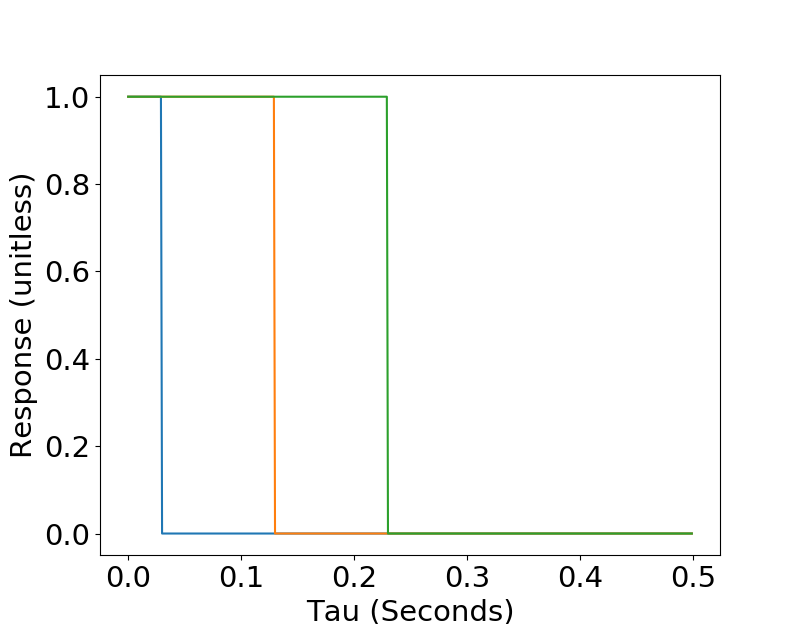
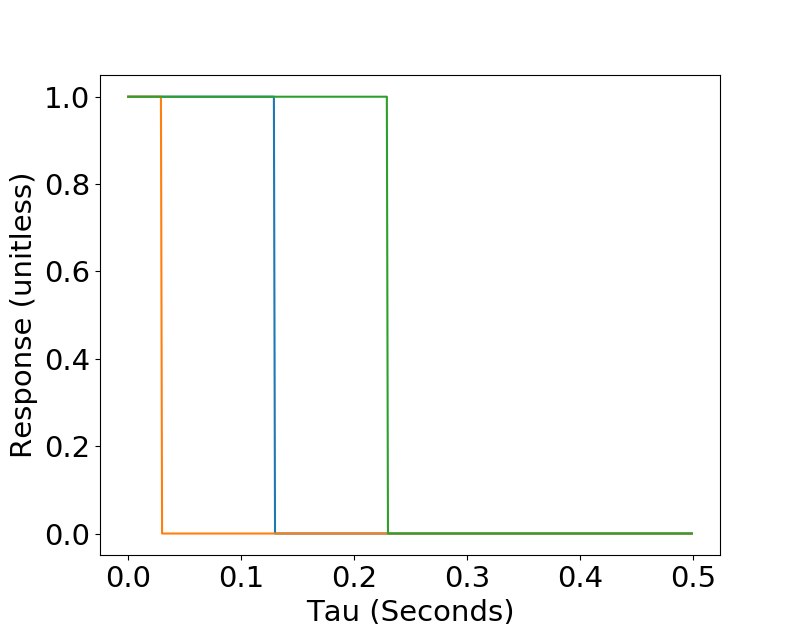
all plot combinations

Changed region(s): [[0.1875, 0.2436, 0.2188, 0.7612], [0.1875, 0.1522, 0.3438, 0.1827], [0.2188, 0.8526, 0.3438, 0.883]]

diff --git a/model_code/direction_flipping_plots.py b/model_code/direction_flipping_plots.py
@@ -315,28 +315,28 @@ if __name__ == "__main__":
     ####### Plot filter examples
     plot_filters()
 
-    # for sus in ['ON', 'OFF']:
-        # for tr in ['ON', 'OFF']:
-            ####### Plots for TF
-            # f_range = np.arange(1., 30., 0.1)#0.1)
-            # plot_slice('TF', f_range, sustained_type=sus, transient_type = tr, save_flag = False)
-            # plot_heatmap('TF', f_range, sustained_type=sus, transient_type = tr, save_flag = True)
-            #
-            #
-            # # ####### Plots for SF
-            # k_range = np.arange(0.005, 0.8, 0.005)#0.005)
-            # plot_slice('SF', k_range, sustained_type=sus, transient_type = tr, save_flag = False)
-            # plot_heatmap('SF', k_range, sustained_type=sus, transient_type = tr, save_flag = False)
-            #
-            # ####### Plots for filter separation
-            # d_range = np.arange(0., 80., 1)#1)
-            # plot_slice('d', d_range, sustained_type=sus, transient_type = tr, save_flag = False)
-            # plot_heatmap('d', d_range, sustained_type=sus, transient_type = tr, save_flag = False)
-            #
-            #
-            # ####### TF/SF Heatmap
-            # plot_heatmap('TF', f_range, parameter2 = 'SF', param2_range = k_range,
-            #                                 sustained_type=sus, transient_type=tr, save_flag=False)
+    for sus in ['ON', 'OFF']:
+        for tr in ['ON', 'OFF']:
+            ###### Plots for TF
+            f_range = np.arange(1., 30., 0.1)#0.1)
+            plot_slice('TF', f_range, sustained_type=sus, transient_type = tr, save_flag = False)
+            plot_heatmap('TF', f_range, sustained_type=sus, transient_type = tr, save_flag = True)
+
+
+            # ####### Plots for SF
+            k_range = np.arange(0.005, 0.8, 0.005)#0.005)
+            plot_slice('SF', k_range, sustained_type=sus, transient_type = tr, save_flag = False)
+            plot_heatmap('SF', k_range, sustained_type=sus, transient_type = tr, save_flag = False)
+
+            ####### Plots for filter separation
+            d_range = np.arange(0., 80., 1)#1)
+            plot_slice('d', d_range, sustained_type=sus, transient_type = tr, save_flag = False)
+            plot_heatmap('d', d_range, sustained_type=sus, transient_type = tr, save_flag = False)
+
+
+            ####### TF/SF Heatmap
+            plot_heatmap('TF', f_range, parameter2 = 'SF', param2_range = k_range,
+                                            sustained_type=sus, transient_type=tr, save_flag=False)
 
 
 
